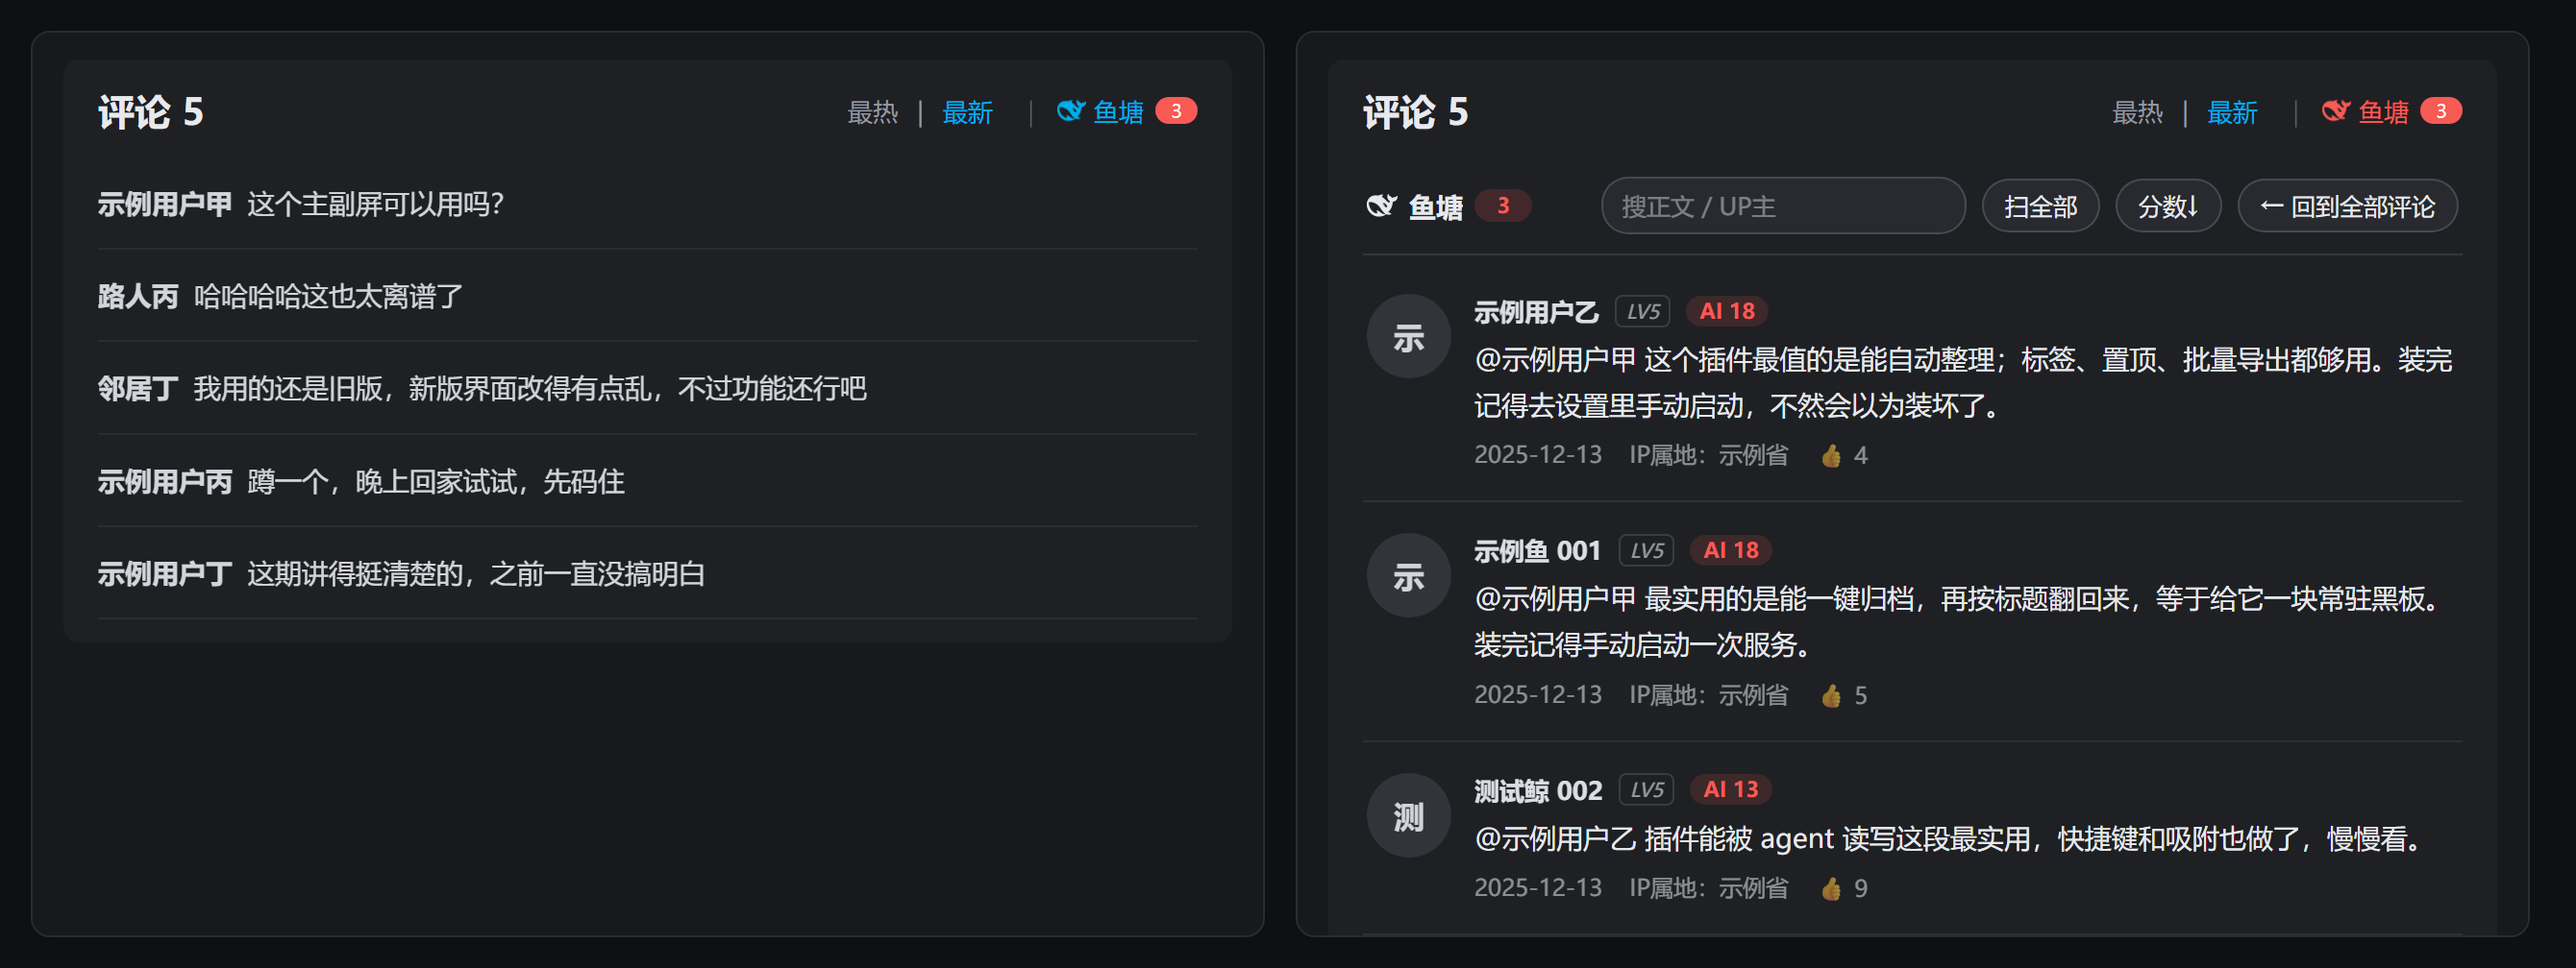
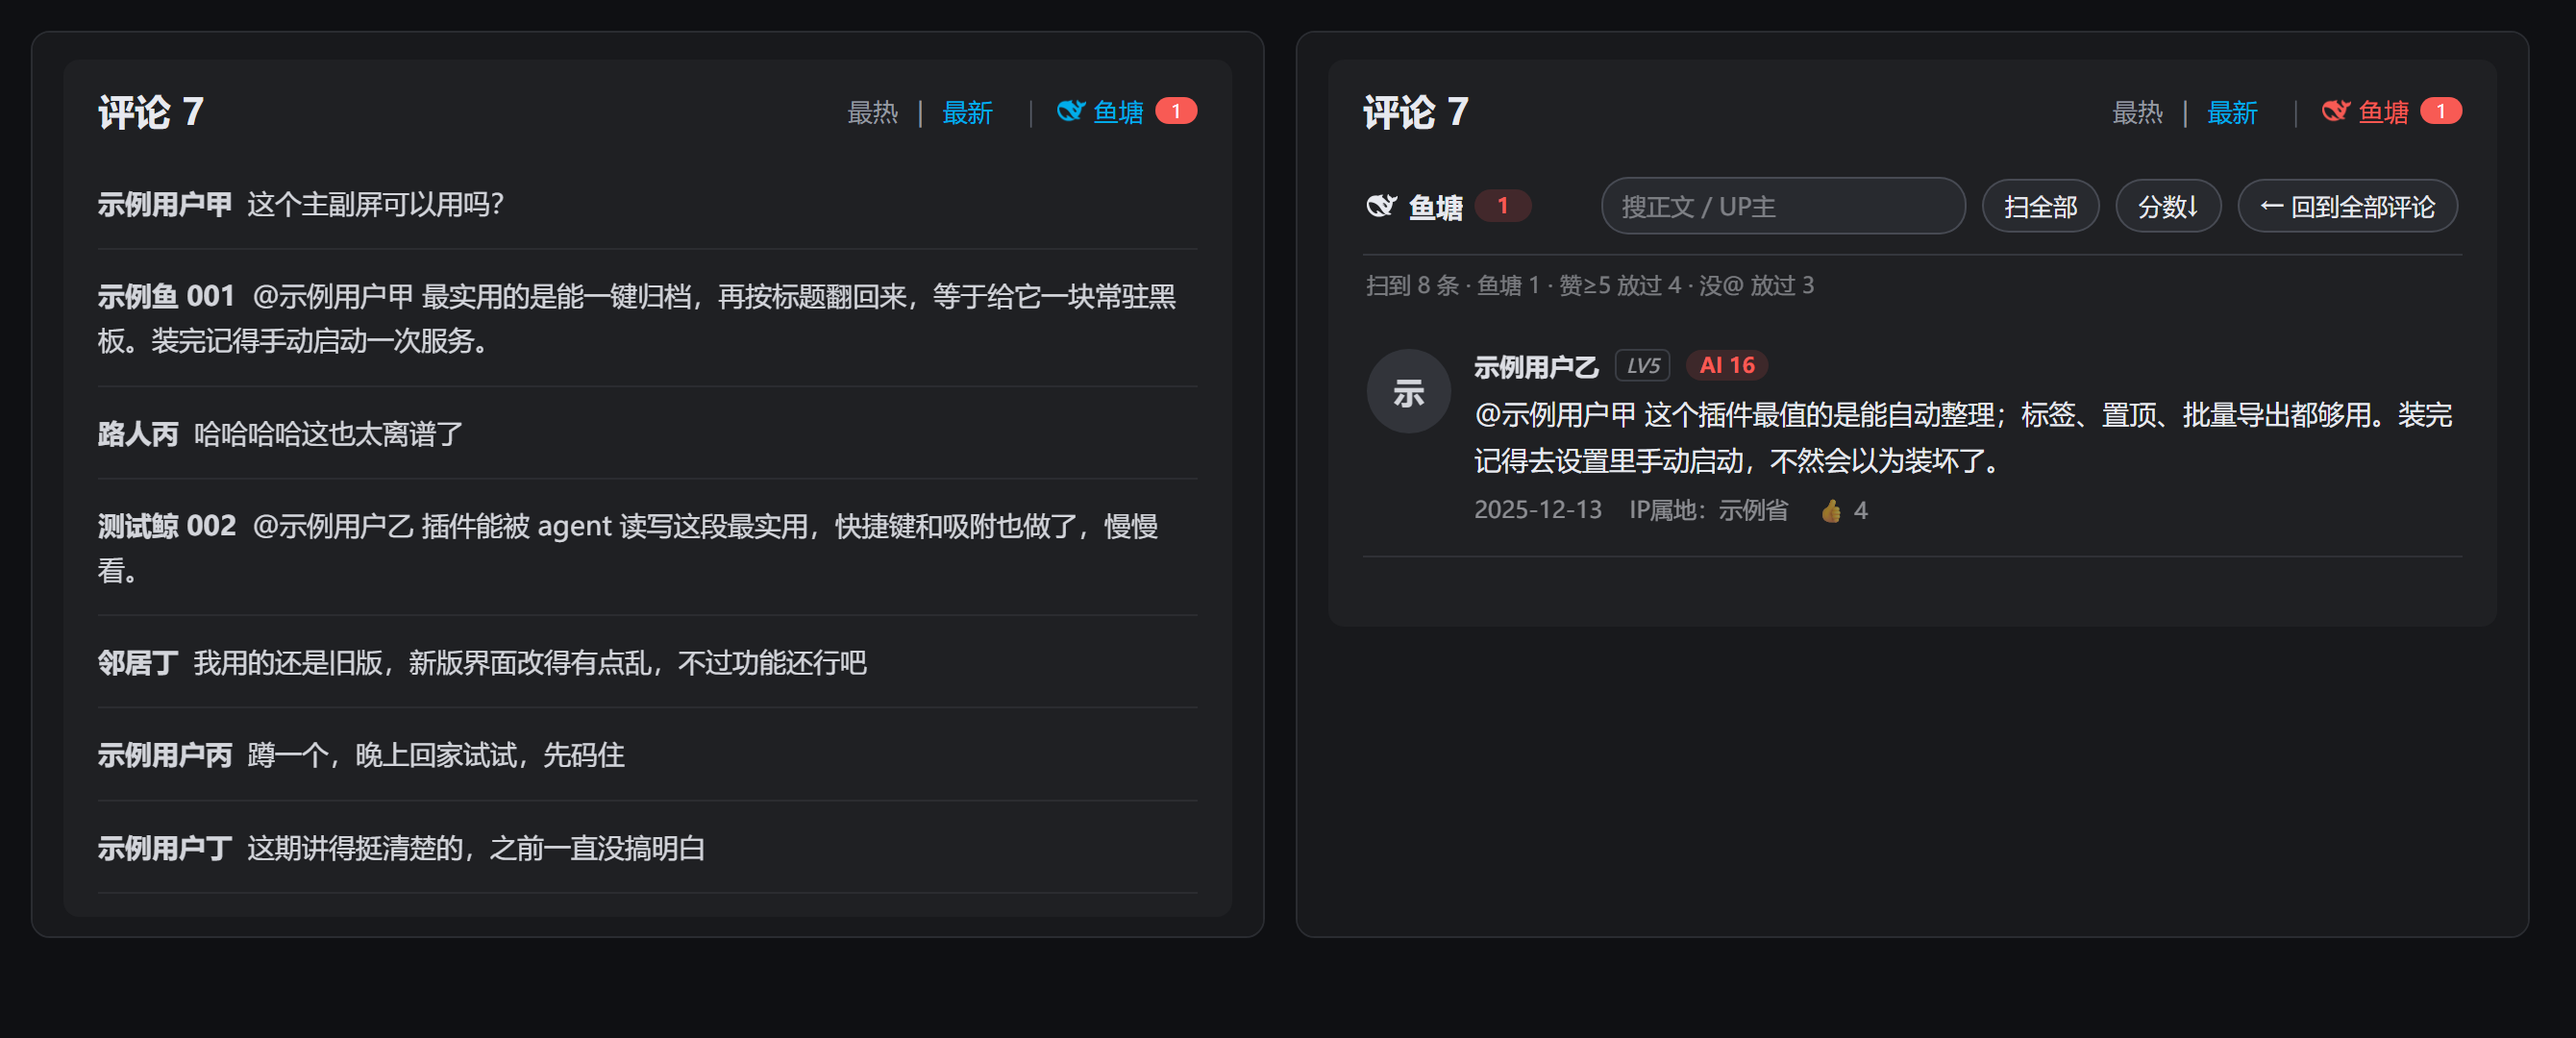
feat: 鱼塘页显示自查统计（2.5.4）
扫到 N 条 · 鱼塘 M · 赞≥5 放过 X · 有回复放过 Y · @UP 放过 Z · 没@ 放过 W
收得少时能直接看出被哪条规则挡住

diff --git a/bilibili-fishpond.user.js b/bilibili-fishpond.user.js
@@ -1,7 +1,7 @@
 // ==UserScript==
 // @name            B站鱼塘 · AI评论收集器
 // @namespace       https://github.com/Heidiefu27/bilibili-fishpond
-// @version         2.5.3
+// @version         2.5.4
 // @description     把评论区里“明显AI生成/推广文案”的评论从原评论区收走，集中放进“最热/最新”旁边的【鱼塘】页；就在原评论区位置就地切换，不开浮窗
 // @author          Heidiefu27
 // @homepageURL     https://github.com/Heidiefu27/bilibili-fishpond
@@ -41,7 +41,7 @@
    * 0. 配置
    * ══════════════════════════════════════════════════════════════ */
 
-  const VERSION = '2.5.3';
+  const VERSION = '2.5.4';
   const TAG = '%c[鱼塘]';
   const TAG_CSS = 'color:#00AEEC;font-weight:700';
   const log = (...a) => { try { console.log(TAG, TAG_CSS, ...a); } catch (e) {} };
@@ -970,6 +970,7 @@
     background: rgba(128,136,153,.10); color: inherit; font-family: inherit;
   }
   .fp-mini:hover { border-color: #00AEEC; color: #00AEEC; }
+  .fp-scaninfo { font-size: 11.5px; opacity: .45; padding: 2px 2px 8px; line-height: 1.6; }
 
   .fp-card { display: flex; gap: 12px; padding: 16px 2px; border-bottom: 1px solid rgba(128,136,153,.16); }
   .fp-card:hover { background: rgba(128,136,153,.05); }
@@ -1194,13 +1195,17 @@
 
     bar.append(title, spacer, search, scanBtn, sortBtn, exitBtn);
 
+    const info = document.createElement('div');
+    info.className = 'fp-scaninfo';
+
     pondListEl = document.createElement('div');
     pondListEl.className = 'fp-pond-list';
 
-    el.append(bar, pondListEl);
+    el.append(bar, info, pondListEl);
     el.__title = title;
     el.__sortBtn = sortBtn;
     el.__scanBtn = scanBtn;
+    el.__info = info;
     el.addEventListener('click', onPondClick);
     return el;
   }
@@ -1222,12 +1227,44 @@
     return out;
   }
 
+  /** 统计：扫到多少、收了多少、各条规则各放过了多少（用于鱼塘页那行说明） */
+  let scanTotalSeen = 0;
+  function summarize() {
+    const out = { total: REPLIES.size, pond: AI.size, like: 0, reply: 0, atup: 0, noat: 0, low: 0, apiTotal: scanTotal || 0 };
+    const upMid = VIP.upMid || detectUp();
+    for (const [, rec] of REPLIES) {
+      if (AI.has(rec.rpid)) continue;
+      const q = /^\s*回复\s*@\s*([^\s:：]{1,24})\s*[:：]\s*/.exec(rec.message || '');
+      const body = q ? rec.message.slice(q[0].length) : (rec.message || '');
+      if (Number(rec.like) >= LIKE_EXEMPT) { out.like++; continue; }
+      if (Number(rec.rcount) > 0) { out.reply++; continue; }
+      if (upMid && ((rec.ats || []).indexOf(String(upMid)) !== -1 || (VIP.upName && body.indexOf('@' + VIP.upName) !== -1))) { out.atup++; continue; }
+      if (CFG.requireAt && !RE_AT.test(body)) { out.noat++; continue; }
+      out.low++;
+    }
+    return out;
+  }
+
   function renderPond(force) {
     if (!pondEl || !pondListEl) return;
     updatePondTitle();
-    const sig = AI.size + '|' + REPLIES.size + '|' + searchKW + '|' + CFG.sort;
+    const sig = AI.size + '|' + REPLIES.size + '|' + searchKW + '|' + CFG.sort + '|' + (scanTotal || 0);
     if (!force && sig === pondSig) return;
     pondSig = sig;
+
+    if (pondEl.__info) {
+      const st = summarize();
+      const parts = ['扫到 ' + st.total + ' 条'];
+      if (st.apiTotal && st.total < st.apiTotal * 0.8) parts.push('（该视频共 ' + st.apiTotal + ' 条，接口只给了这些，点「扫全部」可再试）');
+      parts.push('鱼塘 ' + st.pond);
+      const ex = [];
+      if (st.like) ex.push('赞≥' + LIKE_EXEMPT + ' 放过 ' + st.like);
+      if (st.reply) ex.push('有回复放过 ' + st.reply);
+      if (st.atup) ex.push('@UP 放过 ' + st.atup);
+      if (st.noat) ex.push('没@ 放过 ' + st.noat);
+      if (ex.length) parts.push(ex.join(' · '));
+      pondEl.__info.textContent = parts.join(' · ');
+    }
 
     const list = currentList();
     const frag = document.createDocumentFragment();

diff --git a/CHANGELOG.md b/CHANGELOG.md
@@ -1,5 +1,11 @@
 # 更新日志
 
+## [2.5.4] — 鱼塘页增加自查统计
+
+- 工具栏下方新增一行灰字：`扫到 N 条 · 鱼塘 M · 赞≥5 放过 X · 有回复放过 Y · @UP 放过 Z · 没@ 放过 W`
+- 收得少时可以直接看出是被哪条规则挡掉的；扫描数与接口总数差太多时会提示"接口只给了这些"
+- 统计随扫描/过滤实时刷新
+
 ## [2.5.3] — 有子回复的排除
 
 - 新增前置排除：**有子回复**（`rcount > 0`）→ 必定不是鱼（真人在讨论，水军评论没人回）

diff --git a/README.md b/README.md
@@ -27,6 +27,7 @@
 | 点 `最新/最热` 或 `← 回到全部评论` | 切回正常评论区 |
 | 鱼塘页顶部 | 搜索正文/UP主、按分数或时间排序 |
 | 点 `扫全部` | 翻页扫描该视频的**全部**评论（不只是你滚动加载到的），进度会显示在按钮上，再点一次可中断 |
+| 工具栏下方那行灰字 | 自查统计：`扫到 N 条 · 鱼塘 M · 赞≥5 放过 X · 有回复放过 Y · 没@ 放过 Z`，直接告诉你"为什么只收了这几条" |
 
 ## 扫描全部评论
 
